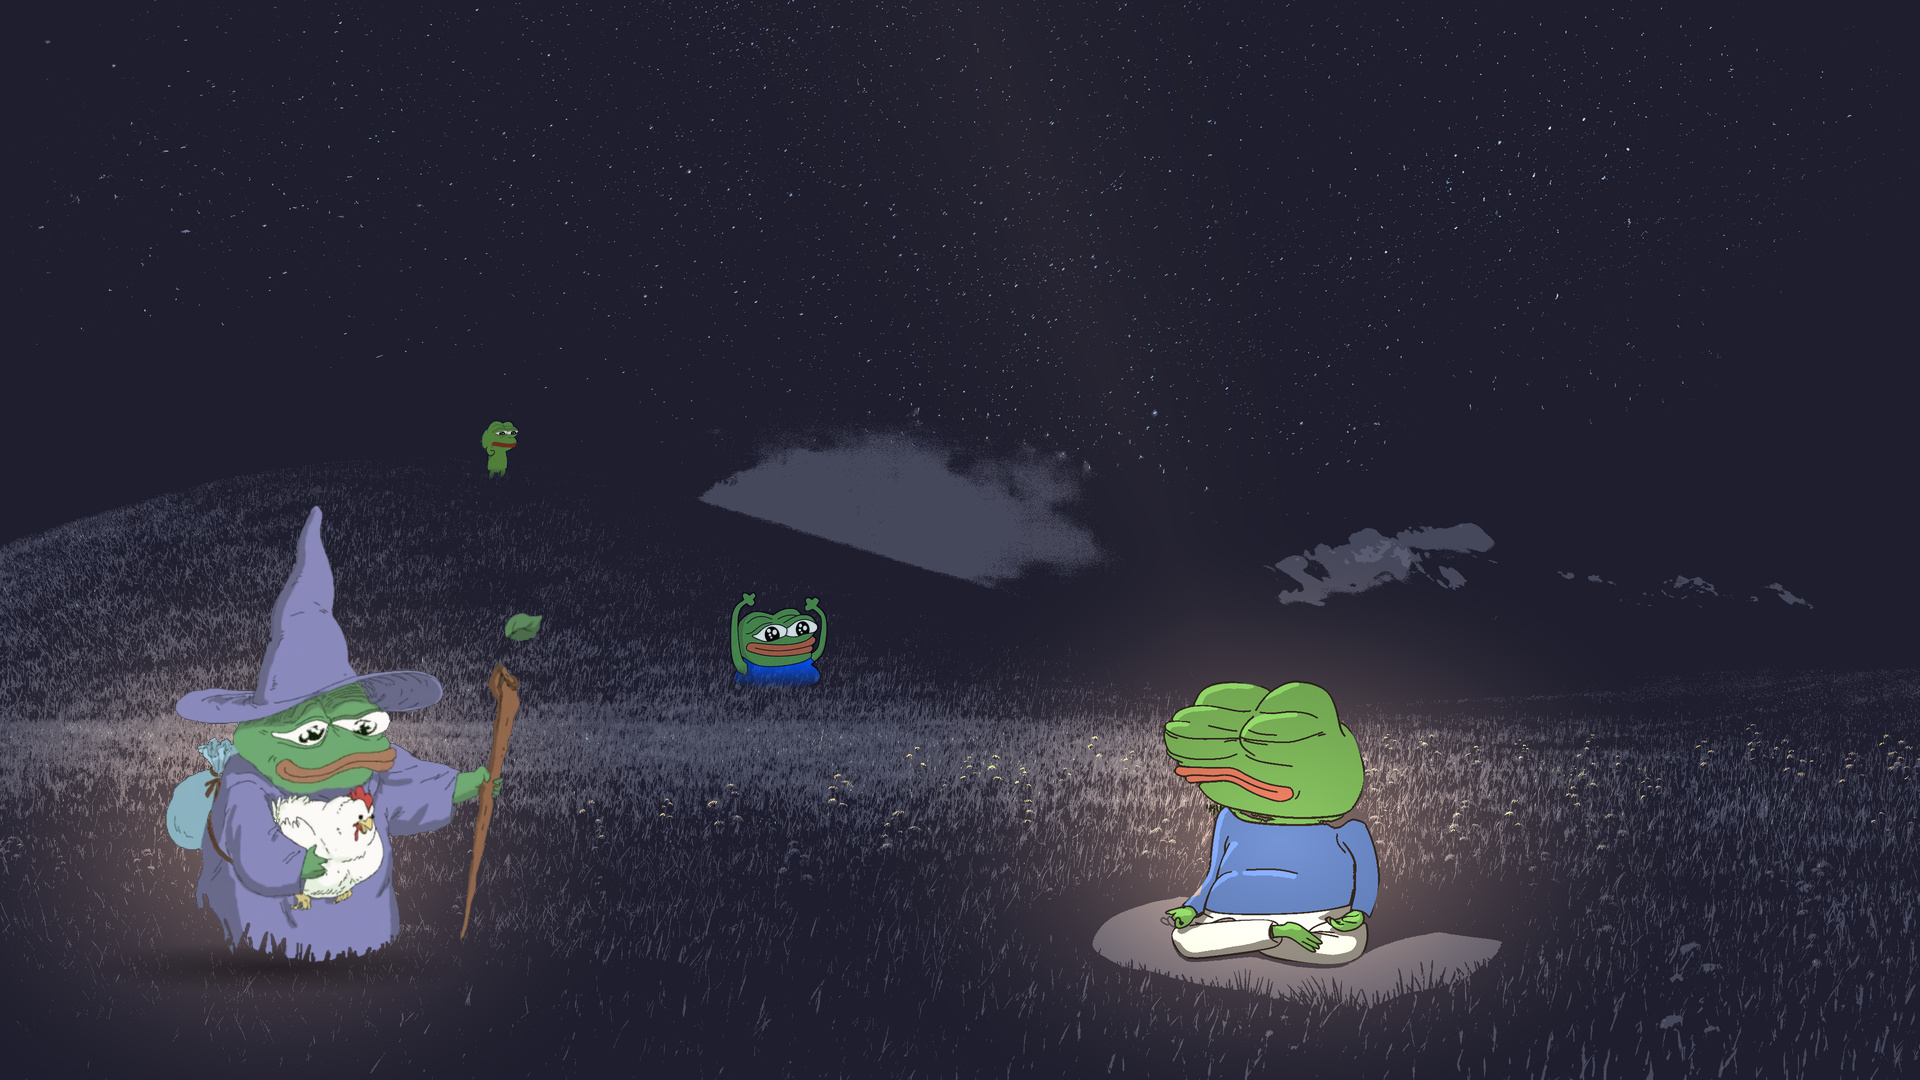
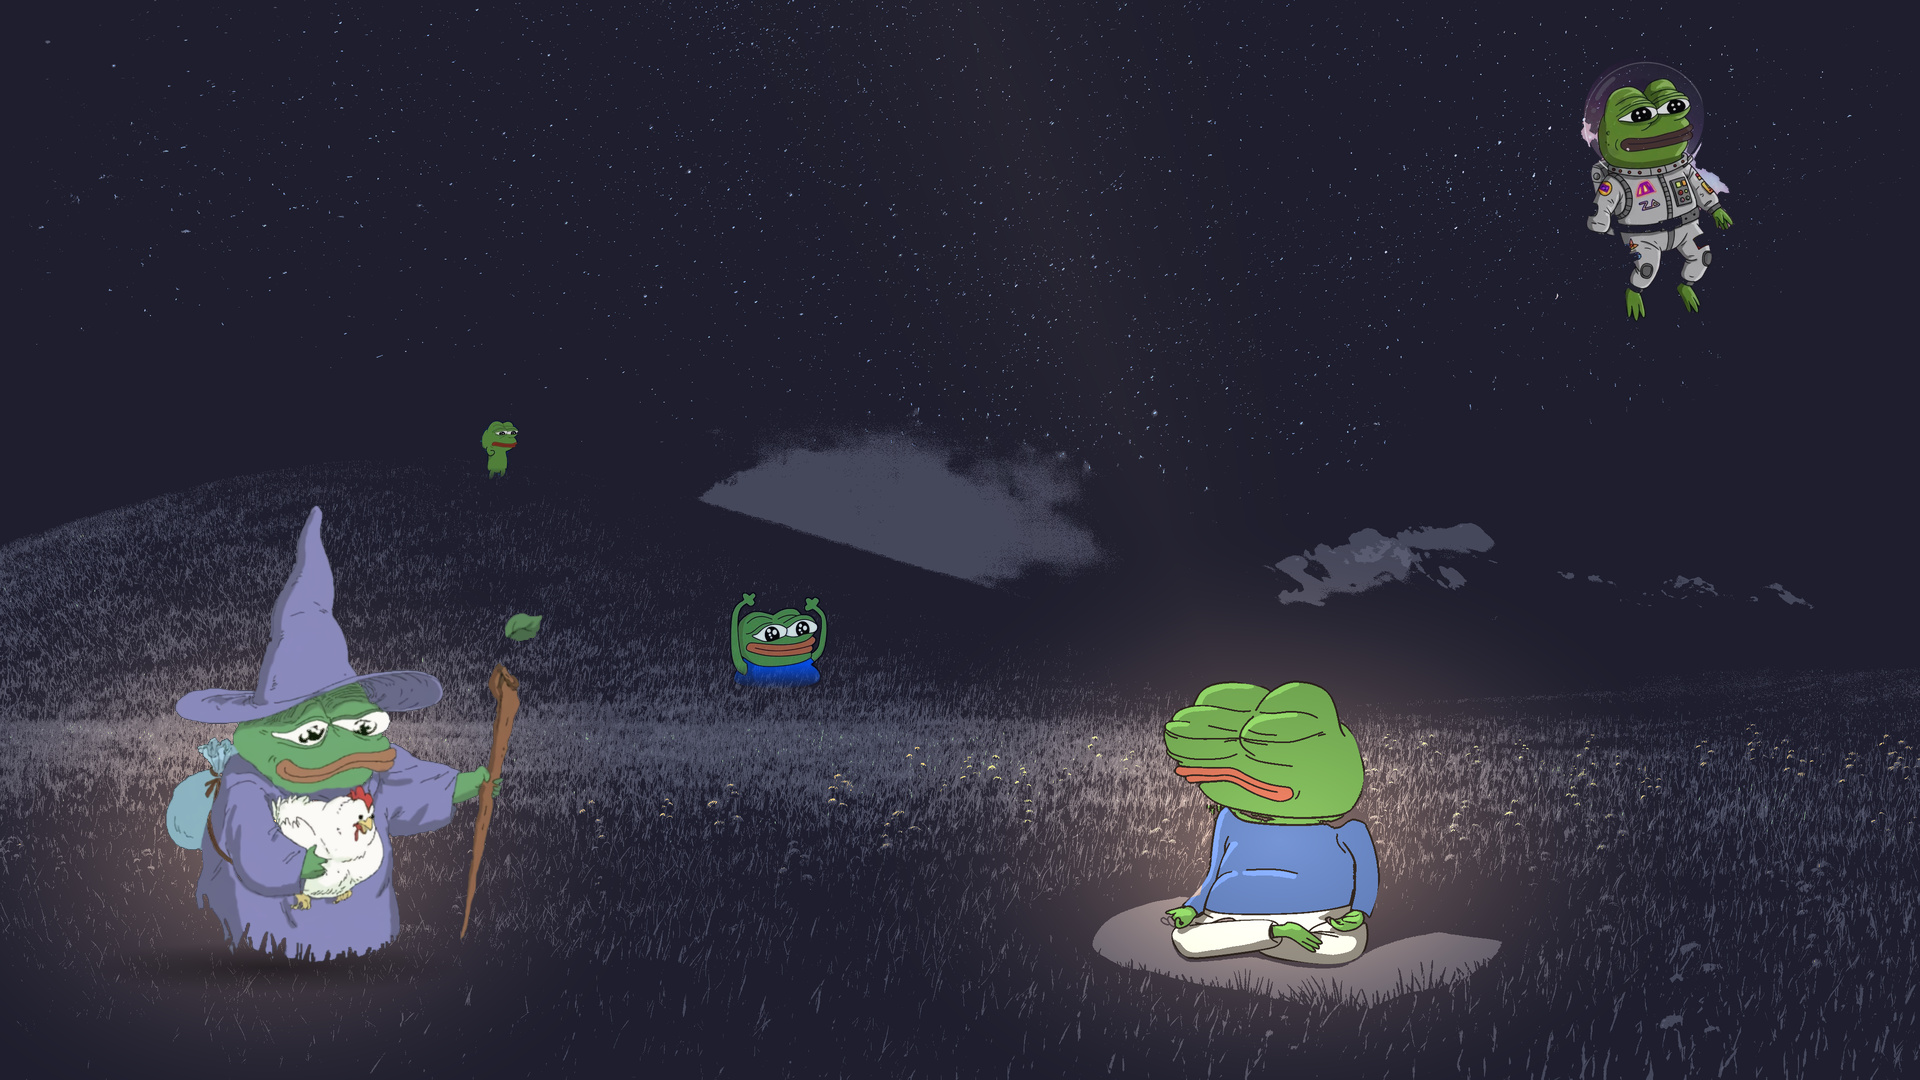
Wallpaper: astronaut Pepe in the top-right sky

Changed region(s): [[0.8125, 0.0611, 0.9062, 0.3056]]

diff --git a/.config/backgrounds/pepe_mago_wall.py b/.config/backgrounds/pepe_mago_wall.py
@@ -90,6 +90,48 @@ ha, hyp = hyp[..., 3:] / 255, hyp[..., :3]
 ha *= np.clip((HH - 1 - np.arange(HH)) / 25, 0, 1)[:, None, None]  # la camiseta se hunde en la hierba
 hx, hy = HX - hw // 2, HY - HH
 
+# Pepe astronauta (pepe-astronauta.png, fondo de galaxia): traje gris + verde + contorno, crecido
+# desde el pecho para dejar fuera estrellas y planetas; el casco es un disco de cristal translúcido.
+src = load(DIR / "pepe-astronauta.png", 860, 860)
+sat, lum = np.ptp(src, axis=2), src @ [0.299, 0.587, 0.114]
+r, g, b = src[..., 0], src[..., 1], src[..., 2]
+green = (g > r + 20) & (g > b + 20)
+suit = (sat < 45) & (lum > 110)
+cand = (green | suit | (grow(green | suit, 3) & (lum < 90))) & ~((b > g + 30) & (r > g + 30))  # sin morado de galaxia
+body = np.zeros_like(cand)
+body[520, 450] = True               # semilla en el pecho
+while True:
+    n = grow(body) & cand
+    if (n == body).all():
+        break
+    body = n
+body = ~grow(~grow(body, 4), 4)     # cierre
+out = np.zeros_like(body)
+out[0, :] = out[-1, :] = out[:, 0] = out[:, -1] = True
+out &= ~body
+while True:                         # rellena huecos (parches, ojos)
+    n = grow(out) & ~body
+    if (n == out).all():
+        break
+    out = n
+yy0, xx0 = np.mgrid[0:860, 0:860]
+helmet = np.hypot(xx0 - 450, yy0 - 318) < 136
+amask = np.maximum(~grow(out) * 1.0, helmet * 0.3)   # cristal del casco al 30 %
+cx0, cy0, cx1, cy1 = 240, 180, 620, 790              # recorte alrededor del astronauta
+src, amask = src[cy0:cy1, cx0:cx1], amask[cy0:cy1, cx0:cx1]
+AH, AX, AY = 300, 1650, 40          # alto, centro x y borde superior (cielo arriba a la derecha)
+aw = round(src.shape[1] * AH / src.shape[0])
+rgba = np.dstack([src, amask * 255.0]).astype(np.uint8)
+raw = subprocess.run(["magick", "-size", f"{src.shape[1]}x{src.shape[0]}", "-depth", "8", "rgba:-",
+                      "-background", "none", "-rotate", "-12", "-filter", "Lanczos",
+                      "-resize", f"x{AH}", "rgba:-"],
+                     input=rgba.tobytes(), capture_output=True, check=True).stdout
+aw = len(raw) // (4 * AH)           # el giro cambia el ancho
+ast = np.frombuffer(raw, np.uint8).reshape(AH, aw, 4).astype(float)
+aa, ast = ast[..., 3:] / 255, ast[..., :3]
+ax, ay = AX - aw // 2, AY
+assert 0 <= ax and ax + aw <= W
+
 def blend(scene, fig, alpha, x, y):
     h, w = alpha.shape[:2]
     scene[y:y + h, x:x + w] = scene[y:y + h, x:x + w] * (1 - alpha) + fig * alpha
@@ -99,8 +141,9 @@ fx = px + 0.30 * cw                # centro de los pies (bajo la túnica, no el 
 # Sombra en la hierba bajo los pies
 shadow = np.clip(1 - np.sqrt(((xx - fx) / 190) ** 2 + ((yy - FY + 8) / 26) ** 2), 0, 1)[..., None]
 
-def paste(scene, fig, far, hype):
+def paste(scene, fig, far, hype, astro):
     out = scene * (1 - 0.45 * shadow)
+    blend(out, astro, aa, ax, ay)
     blend(out, far, la, lx, ly)
     blend(out, hype, ha, hx, hy)
     blend(out, fig, a, px, py)
@@ -113,7 +156,8 @@ g = (np.clip(1 - d, 0, 1) ** 2)[..., None]
 desk = desk * (1 + 1.6 * g * SUN / 255) + SUN * 0.25 * g
 # el lejano en color pero algo velado por la distancia
 save(paste(desk, mago * 0.95 + SUN * 0.04, lej * 0.8 + 0.2 * desk[ly:ly + LH, lx:lx + lw],
-           hyp * 0.85 + 0.15 * desk[hy:hy + HH, hx:hx + hw]), DIR / "wallpaper-desktop.jpg")
+           hyp * 0.85 + 0.15 * desk[hy:hy + HH, hx:hx + hw],
+           ast * 0.85 + 0.15 * desk[ay:ay + AH, ax:ax + aw]), DIR / "wallpaper-desktop.jpg")
 
 # Bloqueo: apagado, luminancia llevada a los tonos gris lavanda del Pepe nocturno
 night = load(DIR / "wallpaper-pepe.png", W, H)
@@ -121,5 +165,6 @@ def apagar(fig, light):
     dark = np.array([34, 32, 50])
     return dark + (light - dark) * (fig @ [0.299, 0.587, 0.114])[..., None] / 255
 save(paste(night, apagar(mago, np.array([150, 150, 180])), apagar(lej, np.array([115, 115, 145])),
-           apagar(hyp, np.array([128, 128, 158]))), DIR / "wallpaper.jpg")
+           apagar(hyp, np.array([128, 128, 158])), apagar(ast, np.array([140, 140, 170]))),
+     DIR / "wallpaper.jpg")
 print("ok")
